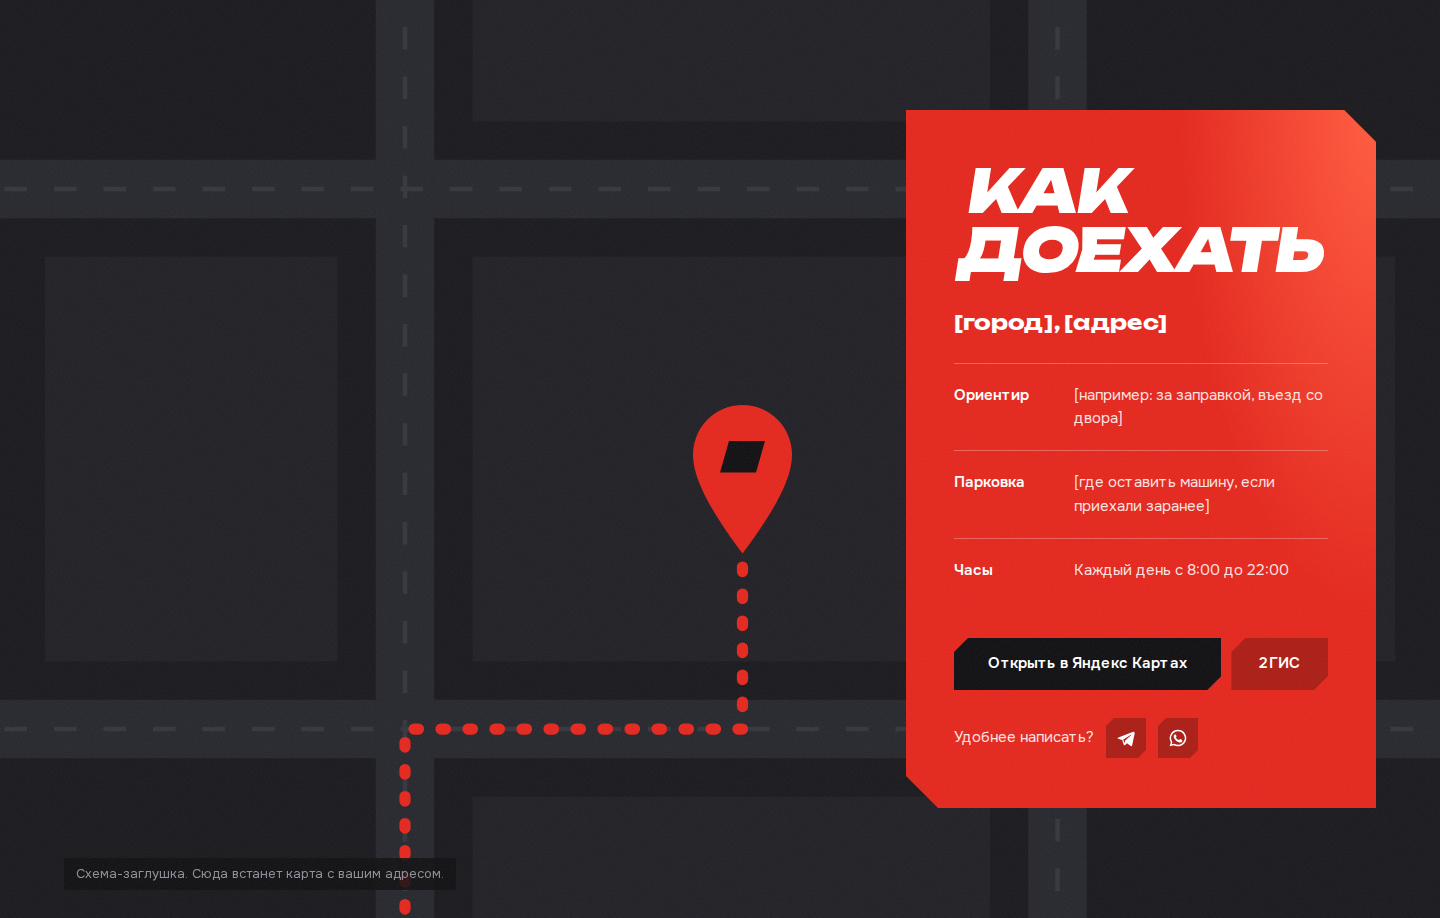
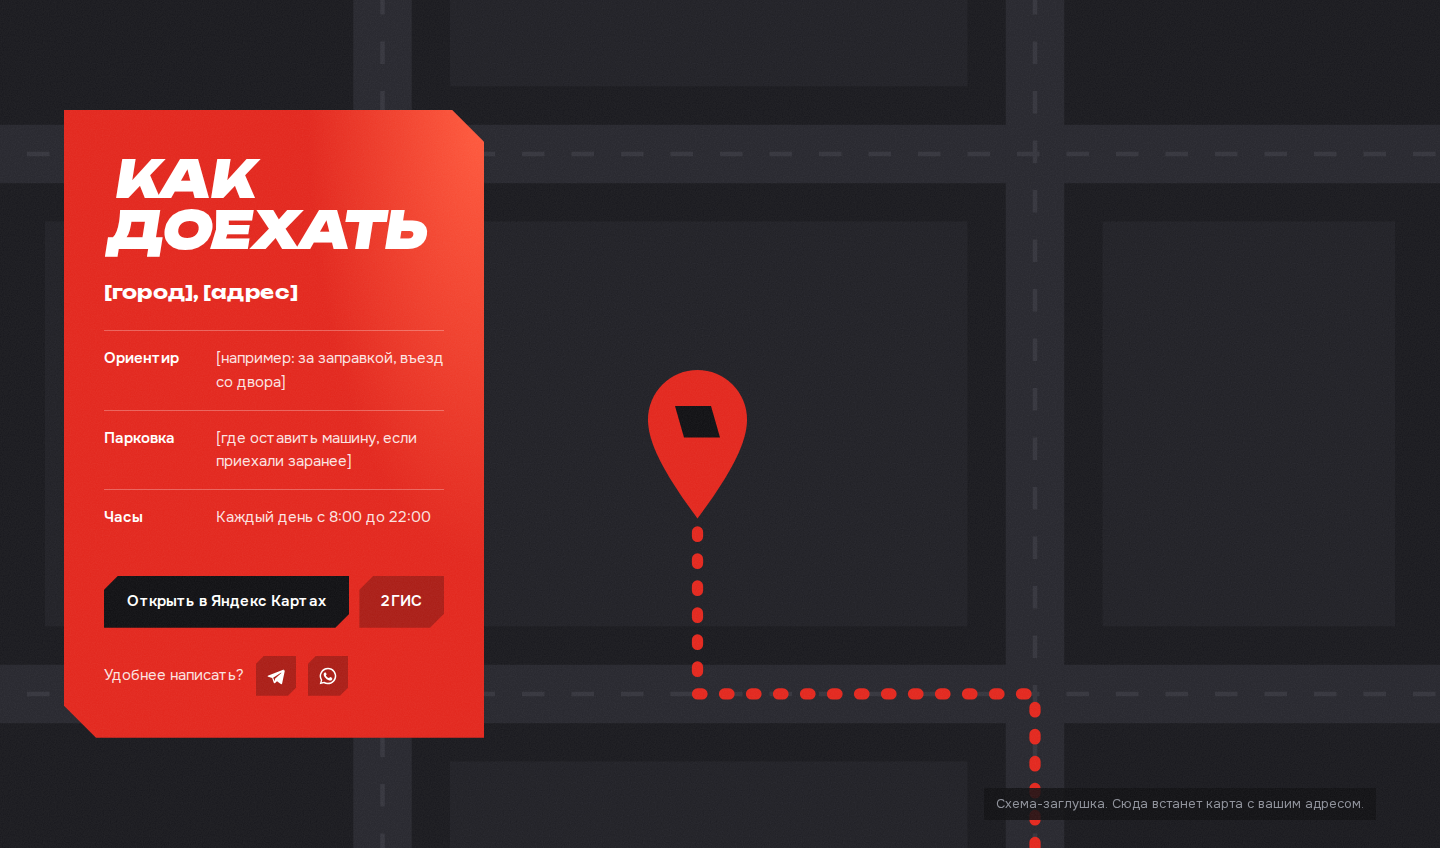
ПРОТЕКТОР, компьютер: на первом экране факты и контакты под заголовком, без кнопки; «Как доехать» — карточка слева и меньше
Claude-Session: https://claude.ai/code/session_01CSYCmsYEsfGfuLAZRJC8KX

diff --git a/protektor/styles.css b/protektor/styles.css
@@ -1356,18 +1356,19 @@ main { overflow-x: clip; }
     clip-path: none; filter: blur(10px);
     background: radial-gradient(100% 50% at 100% 50%, rgba(255, 250, 235, 0.5) 0, rgba(255, 250, 235, 0.16) 45%, transparent 75%);
   }
-  .hero__call { display: none; }
-  .hero__info { display: block; position: absolute; z-index: 2; left: var(--pad); bottom: 78px; width: clamp(470px, 46vw, 680px); }
+  .hero__actions { display: none; }
+  .hero__info { display: block; width: clamp(440px, 40vw, 540px); margin-top: 44px; }
+  .hero__nums li { white-space: nowrap; }
   .hero__nums { display: grid; grid-template-columns: repeat(3, 1fr); border-top: 1px solid var(--line); }
-  .hero__nums li { padding: 20px 20px 0 0; font-size: 14px; line-height: 1.4; color: var(--steel); }
-  .hero__nums li + li { padding-left: 22px; border-left: 1px solid var(--line); }
-  .hero__nums b { display: block; margin-bottom: 6px; font-family: var(--display); font-weight: 900; font-size: 24px; letter-spacing: -0.02em; color: var(--chalk); }
-  .hero__contact { display: flex; align-items: center; gap: 10px; margin-top: 26px; padding-top: 22px; border-top: 1px solid var(--line); }
-  .hero__tel { margin-right: 14px; white-space: nowrap; font-family: var(--display); font-weight: 700; font-size: 20px; letter-spacing: -0.01em; transition: color 0.2s; }
+  .hero__nums li { padding: 16px 16px 0 0; font-size: 13px; line-height: 1.4; color: var(--steel); }
+  .hero__nums li + li { padding-left: 18px; border-left: 1px solid var(--line); }
+  .hero__nums b { display: block; margin-bottom: 4px; font-family: var(--display); font-weight: 900; font-size: 19px; letter-spacing: -0.02em; color: var(--chalk); }
+  .hero__contact { display: flex; align-items: center; gap: 8px; margin-top: 20px; padding-top: 18px; border-top: 1px solid var(--line); }
+  .hero__contact .msg { width: 40px; height: 40px; }
+  .hero__tel { margin-right: 12px; white-space: nowrap; font-family: var(--display); font-weight: 700; font-size: 17px; letter-spacing: -0.01em; transition: color 0.2s; }
   .hero__tel:hover { color: var(--signal); }
-  .hero__addr { margin-right: auto; white-space: nowrap; color: var(--steel); font-size: 15px; }
-  .motion .hero:not(.is-in) .hero__info { opacity: 0; transform: translateY(18px); }
-  .motion .hero.is-in .hero__info { transition: opacity 0.8s var(--ease) 0.45s, transform 0.9s var(--ease) 0.45s; }
+  .hero__addr { margin-right: auto; white-space: nowrap; color: var(--steel); font-size: 14px; }
+  .motion .hero.is-in .hero__copy > .hero__info { transition-delay: 0.45s; }
 
   /* Воздух в тексте карточек */
   .mcar__t { line-height: 1.02; }
@@ -1524,21 +1525,23 @@ main { overflow-x: clip; }
   .book__col--send .book__error { grid-column: 1 / -1; min-height: 0; }
 
   /* Как доехать: схема на весь блок, адрес и кнопки — в красной карточке поверх */
-  .where { position: relative; min-height: 880px; padding: 110px 0; }
+  .where { position: relative; min-height: 820px; padding: 110px 0; }
   .where__inner { display: block; }
   .where__map { position: absolute; inset: 0; min-height: 0; clip-path: none; }
-  .where__map-note { left: var(--pad); right: auto; bottom: 28px; }
+  .where__map-note { left: auto; right: var(--pad); bottom: 28px; }
+  .where__map svg { transform: scaleX(-1); }
   .where__text {
-    position: relative; z-index: 1; width: 470px; margin-left: auto; padding: 52px 48px 50px; color: #fff;
+    position: relative; z-index: 1; width: 420px; padding: 44px 40px 42px; color: #fff;
     background: radial-gradient(70% 120% at 100% 0, #ff5a3d 0, transparent 60%), var(--signal);
     clip-path: polygon(0 0, calc(100% - 32px) 0, 100% 32px, 100% 100%, 32px 100%, 0 calc(100% - 32px));
   }
-  .where__title { font-size: 60px; line-height: 0.98; }
-  .where__addr { margin-top: 30px; font-size: 21px; line-height: 1.3; }
+  .where__title { font-size: 52px; line-height: 0.98; }
+  .where__addr { margin-top: 24px; font-size: 19px; line-height: 1.3; }
   .where__list { margin-top: 26px; }
-  .where__list li { grid-template-columns: 104px 1fr; padding: 20px 0; border-top-color: rgba(255, 255, 255, 0.28); font-size: 15px; line-height: 1.55; }
+  .where__list li { grid-template-columns: 96px 1fr; padding: 16px 0; border-top-color: rgba(255, 255, 255, 0.28); font-size: 15px; line-height: 1.55; }
   .where__list span { color: rgba(255, 255, 255, 0.88); }
-  .where__btns { margin-top: 36px; }
+  .where__btns { margin-top: 30px; }
+  .where__btns .cut { height: 52px; padding: 0 22px; }
   .where__btns .cut--red { flex: 1; background: var(--rubber); }
   .where__btns .cut--red:hover { background: #000; }
   .where__btns .cut--line { background: rgba(0, 0, 0, 0.25); color: #fff; }

diff --git a/protektor/index.html b/protektor/index.html
@@ -184,17 +184,18 @@
         </div>
         <!-- Только на телефоне: три коротких факта под колесом -->
         <ul class="hero__facts"><li><b>2 линии</b>без очереди</li><li><b>R13–R22</b>легковые и кроссоверы</li><li><b>8–22</b>без выходных</li></ul>
-      </div>
-      <!-- Только на компьютере: факты и контакты внизу первого экрана -->
-      <div class="hero__info">
-        <ul class="hero__nums"><li><b>2 линии</b>без очереди</li><li><b>R13–R22</b>легковые и кроссоверы</li><li><b>8–22</b>без выходных</li></ul>
-        <div class="hero__contact">
-          <a class="hero__tel" href="tel:+70000000000">+7 (000) 000-00-00</a>
-          <span class="hero__addr">[город], [адрес]</span>
-          <a class="msg" href="https://t.me/[telegram]" aria-label="Написать в Telegram"><svg viewBox="0 0 24 24" aria-hidden="true"><path d="M21.4 4.2 2.9 11.3c-1.2.5-1.2 1.2-.2 1.5l4.7 1.5 1.8 5.6c.2.6.4.8.9.8.4 0 .6-.2.9-.4l2.2-2.1 4.6 3.4c.8.5 1.4.2 1.6-.8l3-14.2c.3-1.2-.5-1.8-1.3-1.4zM8.6 14l9.3-5.9c.4-.3.8-.1.5.2l-7.6 6.9-.3 3.2z"/></svg></a>
-          <a class="msg" href="https://wa.me/70000000000" aria-label="Написать в WhatsApp"><svg viewBox="0 0 24 24" aria-hidden="true"><path d="M12 2a10 10 0 0 0-8.6 15.1L2 22l5-1.3A10 10 0 1 0 12 2zm0 18.2c-1.5 0-3-.4-4.3-1.2l-.3-.2-3 .8.8-2.9-.2-.3A8.2 8.2 0 1 1 12 20.2zm4.5-6.1c-.2-.1-1.5-.7-1.7-.8-.2-.1-.4-.1-.6.1l-.8 1c-.1.2-.3.2-.5.1a6.7 6.7 0 0 1-3.3-2.9c-.3-.4.2-.4.7-1.3.1-.2 0-.3 0-.4l-.8-1.8c-.2-.5-.4-.4-.6-.4h-.5c-.2 0-.4.1-.7.3-.2.3-.9.9-.9 2.2s.9 2.5 1 2.7c.1.2 1.8 2.8 4.4 3.9 1.6.7 2.3.8 3.1.6.5-.1 1.5-.6 1.7-1.2.2-.6.2-1.1.2-1.2-.1-.1-.3-.2-.6-.3z"/></svg></a>
+        <!-- Только на компьютере: факты и контакты под заголовком -->
+        <div class="hero__info">
+          <ul class="hero__nums"><li><b>2 линии</b>без очереди</li><li><b>R13–R22</b>легковые и кроссоверы</li><li><b>8–22</b>без выходных</li></ul>
+          <div class="hero__contact">
+            <a class="hero__tel" href="tel:+70000000000">+7 (000) 000-00-00</a>
+            <span class="hero__addr">[город], [адрес]</span>
+            <a class="msg" href="https://t.me/[telegram]" aria-label="Написать в Telegram"><svg viewBox="0 0 24 24" aria-hidden="true"><path d="M21.4 4.2 2.9 11.3c-1.2.5-1.2 1.2-.2 1.5l4.7 1.5 1.8 5.6c.2.6.4.8.9.8.4 0 .6-.2.9-.4l2.2-2.1 4.6 3.4c.8.5 1.4.2 1.6-.8l3-14.2c.3-1.2-.5-1.8-1.3-1.4zM8.6 14l9.3-5.9c.4-.3.8-.1.5.2l-7.6 6.9-.3 3.2z"/></svg></a>
+            <a class="msg" href="https://wa.me/70000000000" aria-label="Написать в WhatsApp"><svg viewBox="0 0 24 24" aria-hidden="true"><path d="M12 2a10 10 0 0 0-8.6 15.1L2 22l5-1.3A10 10 0 1 0 12 2zm0 18.2c-1.5 0-3-.4-4.3-1.2l-.3-.2-3 .8.8-2.9-.2-.3A8.2 8.2 0 1 1 12 20.2zm4.5-6.1c-.2-.1-1.5-.7-1.7-.8-.2-.1-.4-.1-.6.1l-.8 1c-.1.2-.3.2-.5.1a6.7 6.7 0 0 1-3.3-2.9c-.3-.4.2-.4.7-1.3.1-.2 0-.3 0-.4l-.8-1.8c-.2-.5-.4-.4-.6-.4h-.5c-.2 0-.4.1-.7.3-.2.3-.9.9-.9 2.2s.9 2.5 1 2.7c.1.2 1.8 2.8 4.4 3.9 1.6.7 2.3.8 3.1.6.5-.1 1.5-.6 1.7-1.2.2-.6.2-1.1.2-1.2-.1-.1-.3-.2-.6-.3z"/></svg></a>
+          </div>
         </div>
       </div>
+
       <div class="tread" aria-hidden="true"><div class="tread__belt" data-belt></div></div>
     </section>
 
